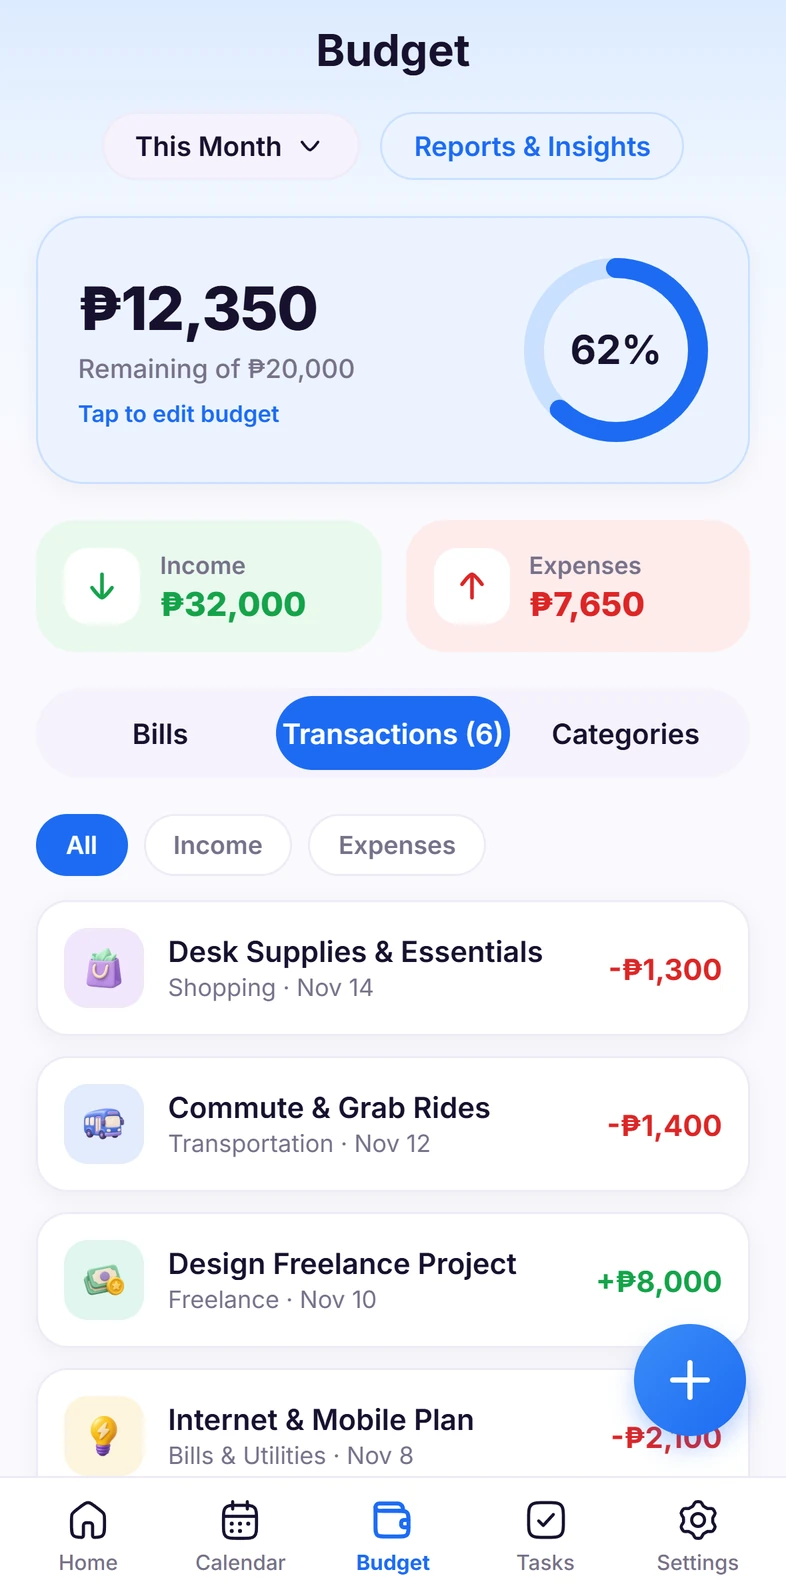
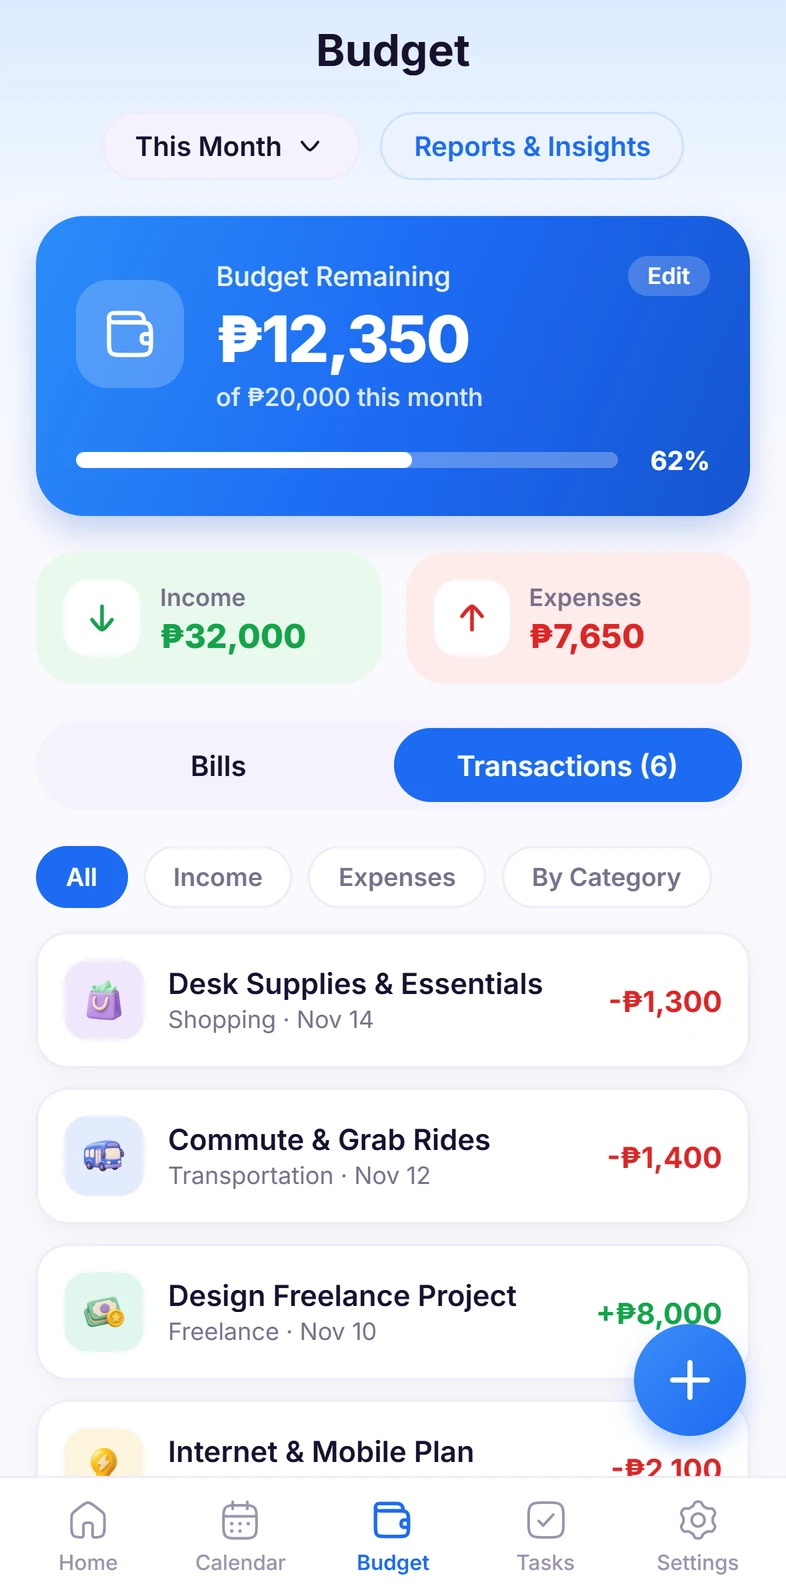
Refresh playground with updated 5-tab Expo captures, disable touch hotspots by default, and sync new UI controls

diff --git a/src/components/playground/InteractivePhonePrototype.tsx b/src/components/playground/InteractivePhonePrototype.tsx
@@ -60,15 +60,15 @@ const SCREEN_META: Record<PrototypeScreenId, ScreenMeta> = {
     id: "calendar",
     badge: "Tab 2 · Calendar",
     title: "Calendar & Schedule",
-    note: "Toggle between Week and Month views at the top, or tap the blue + button to open the New Event sheet.",
+    note: "Toggle between Month and Week views at the top, or tap the blue + button to open the New Event sheet.",
     isModal: false,
     defaultBack: "home",
   },
   budget: {
     id: "budget",
     badge: "Tab 3 · Budget",
-    title: "Budget, Bills & Categories",
-    note: "Switch Bills / Transactions / Categories. Tap any bill row for Bill Detail, tap Reports & Insights, or tap + on Transactions/Categories.",
+    title: "Budget, Bills & Transactions",
+    note: "Home-style gradient hero card with Bills and Transactions tabs (By Category lives inside Transactions). Tap any bill row for Bill Detail or tap Reports & Insights.",
     isModal: false,
     defaultBack: "home",
   },
@@ -84,7 +84,7 @@ const SCREEN_META: Record<PrototypeScreenId, ScreenMeta> = {
     id: "settings",
     badge: "Tab 5 · Settings",
     title: "Settings Menu",
-    note: "Clean 7-row menu. Tap any row — Account, Appearance, Themes, Widget, Data & Backup, Language, or About Manke.",
+    note: "Clean 7-row menu with custom Manke artwork. Tap Account, Appearance & Themes, Preferences, Widget, Data & Backup, Language, or About Manke.",
     isModal: false,
     defaultBack: "home",
   },
@@ -155,16 +155,16 @@ const SCREEN_META: Record<PrototypeScreenId, ScreenMeta> = {
   appearance: {
     id: "appearance",
     badge: "Settings Sub-Screen",
-    title: "Appearance & Preferences",
-    note: "Display mode (System / Light / Dark), currency, monthly budget limit, and notification switches. Tap < to go back.",
+    title: "Preferences",
+    note: "Currency (32+ currencies), monthly budget limit, and local notification & reminder switches. Tap < to go back.",
     isModal: true,
     defaultBack: "settings",
   },
   themes: {
     id: "themes",
     badge: "Settings Sheet",
-    title: "Custom Theme Sheet",
-    note: "Tap Light, Dark, or Emerald Teal inside the sheet to preview themes live and sync Light/Dark mode across the whole app.",
+    title: "Appearance & Themes",
+    note: "System / Light / Dark mode plus 5 accent color palettes all in one sheet. Tap Light, Dark, or Emerald Teal to preview live.",
     isModal: true,
     defaultBack: "settings",
   },
@@ -231,8 +231,8 @@ const QUICK_JUMP_MODALS: { id: PrototypeScreenId; label: string }[] = [
 
 const QUICK_JUMP_SETTINGS: { id: PrototypeScreenId; label: string }[] = [
   { id: "account", label: "Account" },
-  { id: "appearance", label: "Appearance" },
-  { id: "themes", label: "Themes" },
+  { id: "themes", label: "Appearance & Themes" },
+  { id: "appearance", label: "Preferences" },
   { id: "widgets", label: "Widget Studio" },
   { id: "data-backup", label: "Data & Backup" },
   { id: "language", label: "Language" },
@@ -251,7 +251,7 @@ export function InteractivePhonePrototype({
 }) {
   const [screen, setScreen] = useState<PrototypeScreenId>(initialScreen);
   const [history, setHistory] = useState<PrototypeScreenId[]>([]);
-  const [showHotspots, setShowHotspots] = useState(true);
+  const [showHotspots, setShowHotspots] = useState(false);
 
   // Interactive per-screen real capture states
   const [calendarView, setCalendarView] = useState<"week" | "month">("week");
@@ -686,20 +686,8 @@ export function InteractivePhonePrototype({
       case "calendar":
         return [
           {
-            id: "cal-week",
-            left: 5,
-            top: 7.5,
-            width: 45,
-            height: 6,
-            label: "Week View",
-            onClick: () => {
-              setCalendarView("week");
-              setLastFeedback("Switched Calendar to Week view");
-            },
-          },
-          {
             id: "cal-month",
-            left: 50,
+            left: 5,
             top: 7.5,
             width: 45,
             height: 6,
@@ -707,6 +695,18 @@ export function InteractivePhonePrototype({
             onClick: () => {
               setCalendarView("month");
               setLastFeedback("Switched Calendar to Month view");
+            },
+          },
+          {
+            id: "cal-week",
+            left: 50,
+            top: 7.5,
+            width: 45,
+            height: 6,
+            label: "Week View",
+            onClick: () => {
+              setCalendarView("week");
+              setLastFeedback("Switched Calendar to Week view");
             },
           },
           {
@@ -738,9 +738,9 @@ export function InteractivePhonePrototype({
             id: "budget-seg-bills",
             left: 5,
             top: 43,
-            width: 30,
+            width: 45,
             height: 6,
-            label: "Bills Segment",
+            label: "Bills",
             onClick: () => {
               setBudgetTab("bills");
               setLastFeedback("Switched Budget to Bills");
@@ -748,26 +748,14 @@ export function InteractivePhonePrototype({
           },
           {
             id: "budget-seg-tx",
-            left: 35,
+            left: 50,
             top: 43,
-            width: 34,
+            width: 45,
             height: 6,
-            label: "Transactions Segment",
+            label: "Transactions",
             onClick: () => {
               setBudgetTab("transactions");
               setLastFeedback("Switched Budget to Transactions");
-            },
-          },
-          {
-            id: "budget-seg-cat",
-            left: 69,
-            top: 43,
-            width: 26,
-            height: 6,
-            label: "Categories Segment",
-            onClick: () => {
-              setBudgetTab("categories");
-              setLastFeedback("Switched Budget to Categories");
             },
           },
         ];
@@ -776,23 +764,49 @@ export function InteractivePhonePrototype({
           budgetSpots.push({
             id: "budget-bill-rows",
             left: 4,
-            top: 55,
+            top: 56,
             width: 92,
-            height: 34,
+            height: 33,
             label: "Open Bill Detail",
             onClick: () => openModal("bill-detail", "Opened Bill Detail modal"),
           });
         } else {
-          budgetSpots.push({
-            id: "budget-add-fab",
-            left: 79,
-            top: 80,
-            width: 16,
-            height: 9,
-            label: "+ Add Transaction",
-            onClick: () =>
-              openModal("add-transaction", "Opened Add Transaction sheet"),
-          });
+          budgetSpots.push(
+            {
+              id: "budget-tx-all",
+              left: 5,
+              top: 50.5,
+              width: 55,
+              height: 4.5,
+              label: "All / Income / Expenses",
+              onClick: () => {
+                setBudgetTab("transactions");
+                setLastFeedback("Showing Transactions list");
+              },
+            },
+            {
+              id: "budget-tx-cat",
+              left: 62,
+              top: 50.5,
+              width: 33,
+              height: 4.5,
+              label: "By Category",
+              onClick: () => {
+                setBudgetTab("categories");
+                setLastFeedback("Showing Spending by Category");
+              },
+            },
+            {
+              id: "budget-add-fab",
+              left: 79,
+              top: 80,
+              width: 16,
+              height: 9,
+              label: "+ Add Transaction",
+              onClick: () =>
+                openModal("add-transaction", "Opened Add Transaction sheet"),
+            }
+          );
         }
 
         return [...budgetSpots, ...bottomNavTabs];
@@ -886,8 +900,8 @@ export function InteractivePhonePrototype({
       case "settings": {
         const rows: { id: PrototypeScreenId; label: string }[] = [
           { id: "account", label: "Account" },
-          { id: "appearance", label: "Appearance" },
-          { id: "themes", label: "Themes" },
+          { id: "themes", label: "Appearance & Themes" },
+          { id: "appearance", label: "Preferences" },
           { id: "widgets", label: "Widget Studio" },
           { id: "data-backup", label: "Data & Backup" },
           { id: "language", label: "Language" },

diff --git a/src/components/playground/FigmaPlayground.tsx b/src/components/playground/FigmaPlayground.tsx
@@ -364,16 +364,16 @@ const SCREENS: ScreenNode[] = [
   {
     id: "appearance",
     code: "15",
-    title: "Appearance",
+    title: "Preferences",
     group: "Settings Sub-Screens",
     summary:
-      "Settings → Appearance. System/Light/Dark mode, Currency selector, Monthly Budget cap, and Notification reminder switches.",
+      "Settings → Preferences. Currency selector (32+ currencies), Monthly Budget cap, and Notification reminder switches.",
     x: 2840,
     y: 800,
     variants: [
       {
         src: "/playground/09-appearance.webp",
-        label: "Appearance",
+        label: "Preferences",
         topBg: "#FFFFFF",
       },
     ],
@@ -381,10 +381,10 @@ const SCREENS: ScreenNode[] = [
   {
     id: "themes",
     code: "16",
-    title: "Themes",
+    title: "Appearance & Themes",
     group: "Settings Sub-Screens",
     summary:
-      "Settings → Themes sheet. Live appearance switcher and 5 curated accent palettes including Manke Blue and Emerald Teal.",
+      "Settings → Appearance & Themes sheet. System/Light/Dark mode and 5 curated accent palettes in one unified sheet.",
     x: 3190,
     y: 800,
     variants: [
